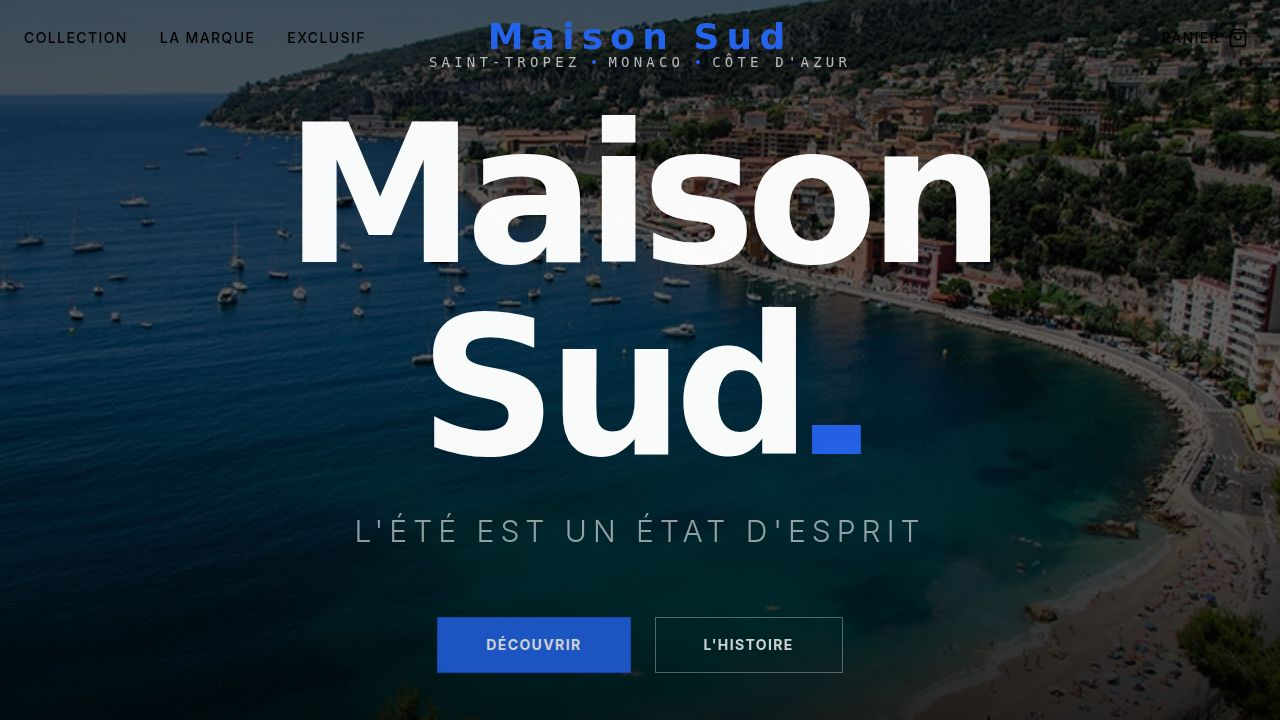
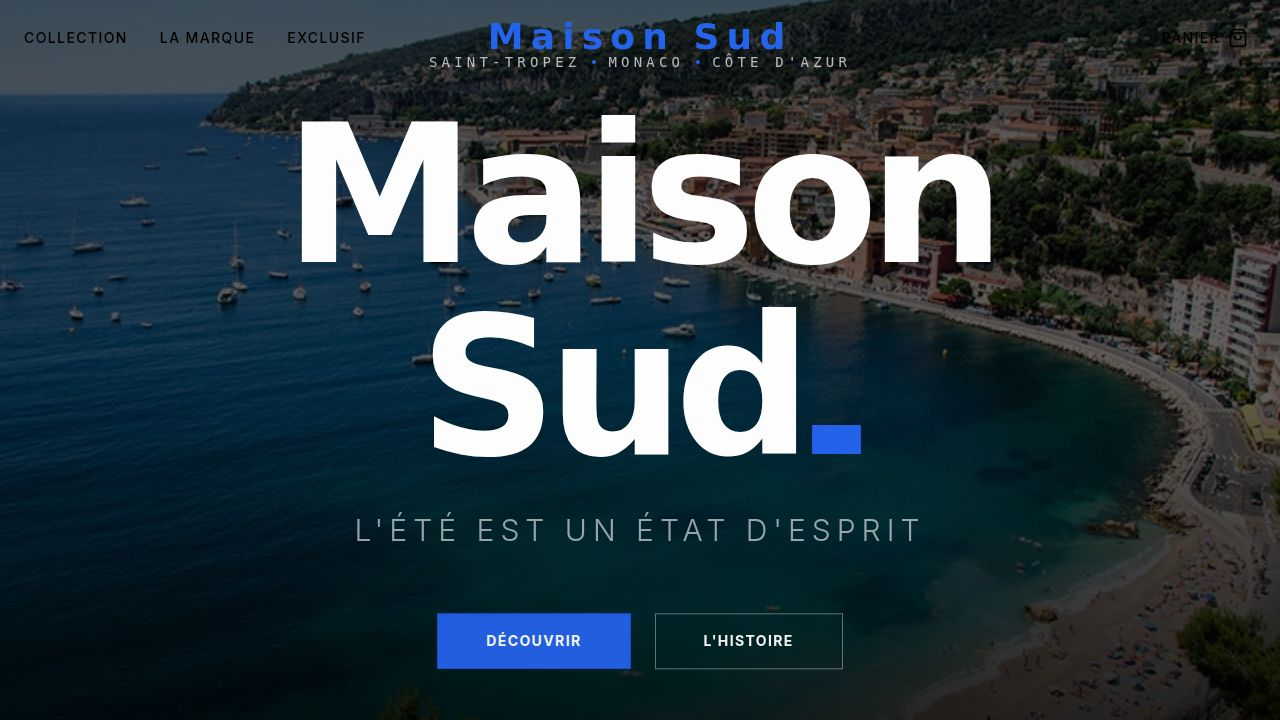
Integrate Printify to automatically fulfill t-shirt orders
Add Printify API integration to create orders automatically upon successful Stripe checkout, including shipping address collection and variant mapping.

Replit-Commit-Author: Agent
Replit-Commit-Session-Id: a1390403-e0f1-4b8f-84fe-168908c03f46
Replit-Commit-Checkpoint-Type: full_checkpoint
Replit-Commit-Event-Id: 6e95026f-8b8b-4692-9fa2-6c491ed200be
Replit-Commit-Screenshot-Url: https://storage.googleapis.com/screenshot-production-us-central1/1d549a2b-a9e6-4c63-8628-7f863f514bf1/a1390403-e0f1-4b8f-84fe-168908c03f46/u0jerSV
Replit-Helium-Checkpoint-Created: true

diff --git a/artifacts/api-server/src/printifyClient.ts b/artifacts/api-server/src/printifyClient.ts
@@ -1,0 +1,94 @@
+const PRINTIFY_API_BASE = 'https://api.printify.com/v1';
+const SHOP_ID = '27907354';
+const PRODUCT_ID = '6a2dc04573ad2eacae0efe6d';
+
+const SIZE_TO_VARIANT: Record<string, number> = {
+  S: 73199,
+  M: 73203,
+  L: 73207,
+  XL: 73211,
+  '2XL': 73215,
+  '3XL': 79169,
+  '4XL': 101476,
+};
+
+function getToken(): string {
+  const token = process.env.PRINTIFY_API_TOKEN;
+  if (!token) throw new Error('PRINTIFY_API_TOKEN environment variable is not set');
+  return token;
+}
+
+async function printifyRequest(path: string, options: RequestInit = {}): Promise<any> {
+  const resp = await fetch(`${PRINTIFY_API_BASE}${path}`, {
+    ...options,
+    headers: {
+      Authorization: `Bearer ${getToken()}`,
+      'Content-Type': 'application/json',
+      ...(options.headers ?? {}),
+    },
+    signal: AbortSignal.timeout(15_000),
+  });
+
+  const body = await resp.json();
+
+  if (!resp.ok) {
+    throw new Error(
+      `Printify API error ${resp.status}: ${JSON.stringify(body)}`
+    );
+  }
+
+  return body;
+}
+
+export interface PrintifyAddress {
+  firstName: string;
+  lastName: string;
+  email: string;
+  phone: string;
+  address1: string;
+  address2?: string;
+  city: string;
+  region: string;
+  zip: string;
+  country: string;
+}
+
+export async function createPrintifyOrder(opts: {
+  externalId: string;
+  size: string;
+  quantity: number;
+  address: PrintifyAddress;
+}): Promise<{ id: string }> {
+  const variantId = SIZE_TO_VARIANT[opts.size] ?? SIZE_TO_VARIANT['M'];
+
+  const payload = {
+    external_id: opts.externalId,
+    label: `Maison Sud — ${opts.externalId.slice(-8)}`,
+    line_items: [
+      {
+        product_id: PRODUCT_ID,
+        variant_id: variantId,
+        quantity: opts.quantity,
+      },
+    ],
+    shipping_method: 1,
+    send_shipping_notification: true,
+    address_to: {
+      first_name: opts.address.firstName,
+      last_name: opts.address.lastName,
+      email: opts.address.email,
+      phone: opts.address.phone || '',
+      country: opts.address.country,
+      region: opts.address.region || '',
+      address1: opts.address.address1,
+      address2: opts.address.address2 || '',
+      city: opts.address.city,
+      zip: opts.address.zip,
+    },
+  };
+
+  return printifyRequest(`/shops/${SHOP_ID}/orders.json`, {
+    method: 'POST',
+    body: JSON.stringify(payload),
+  });
+}

diff --git a/artifacts/api-server/src/app.ts b/artifacts/api-server/src/app.ts
@@ -4,6 +4,8 @@ import pinoHttp from "pino-http";
 import router from "./routes";
 import { WebhookHandlers } from "./webhookHandlers";
 import { logger } from "./lib/logger";
+import { createPrintifyOrder, type PrintifyAddress } from "./printifyClient";
+import { getUncachableStripeClient } from "./stripeClient";
 
 const app: Express = express();
 
@@ -47,7 +49,17 @@ app.post(
         return;
       }
 
+      // Let stripe-replit-sync handle DB sync first
       await WebhookHandlers.processWebhook(req.body as Buffer, sig);
+
+      // Also handle checkout completion for Printify fulfillment
+      const event = JSON.parse(req.body.toString());
+      if (event.type === 'checkout.session.completed') {
+        handlePrintifyFulfillment(event.data.object).catch((err) =>
+          logger.error({ err }, 'Printify fulfillment failed')
+        );
+      }
+
       res.status(200).json({ received: true });
     } catch (error: any) {
       logger.error({ err: error }, 'Webhook processing error');
@@ -55,6 +67,53 @@ app.post(
     }
   }
 );
+
+async function handlePrintifyFulfillment(session: any): Promise<void> {
+  const stripe = await getUncachableStripeClient();
+
+  // Retrieve full session to ensure shipping details are present
+  const fullSession = await stripe.checkout.sessions.retrieve(session.id, {
+    expand: ['line_items'],
+  });
+
+  const shipping = fullSession.shipping_details;
+  const customer = fullSession.customer_details;
+  const meta = fullSession.metadata ?? {};
+
+  if (!shipping?.address || !customer?.email) {
+    logger.warn({ sessionId: session.id }, 'Printify: missing shipping address or email — skipping');
+    return;
+  }
+
+  const nameParts = (shipping.name ?? customer.name ?? '').trim().split(' ');
+  const firstName = nameParts[0] ?? '';
+  const lastName = nameParts.slice(1).join(' ') || firstName;
+
+  const address: PrintifyAddress = {
+    firstName,
+    lastName,
+    email: customer.email,
+    phone: customer.phone ?? '',
+    address1: shipping.address.line1 ?? '',
+    address2: shipping.address.line2 ?? '',
+    city: shipping.address.city ?? '',
+    region: shipping.address.state ?? '',
+    zip: shipping.address.postal_code ?? '',
+    country: shipping.address.country ?? '',
+  };
+
+  const size = meta.size || 'M';
+  const quantity = fullSession.line_items?.data[0]?.quantity ?? 1;
+
+  const order = await createPrintifyOrder({
+    externalId: fullSession.id,
+    size,
+    quantity,
+    address,
+  });
+
+  logger.info({ printifyOrderId: order.id, sessionId: fullSession.id, size }, 'Printify order created');
+}
 
 app.use(cors());
 app.use(express.json());

diff --git a/artifacts/api-server/src/routes/stripe.ts b/artifacts/api-server/src/routes/stripe.ts
@@ -41,16 +41,19 @@ router.post('/stripe/checkout', async (req, res) => {
 
     const session = await stripe.checkout.sessions.create({
       payment_method_types: ['card'],
-      line_items: [
-        {
-          price: priceId,
-          quantity,
-        },
-      ],
+      line_items: [{ price: priceId, quantity }],
       mode: 'payment',
+      // Collect shipping address for Printify fulfillment
+      shipping_address_collection: {
+        allowed_countries: [
+          'FR', 'BE', 'CH', 'LU', 'MC', 'GB', 'US', 'CA', 'DE', 'IT',
+          'ES', 'NL', 'PT', 'AT', 'SE', 'NO', 'DK', 'FI', 'IE', 'AU',
+        ],
+      },
+      phone_number_collection: { enabled: true },
       success_url: `${host}/?checkout=success`,
       cancel_url: `${host}/product/${productId}`,
-      metadata: { productId, size: size || '' },
+      metadata: { productId, size: size || 'M' },
     });
 
     res.json({ url: session.url });